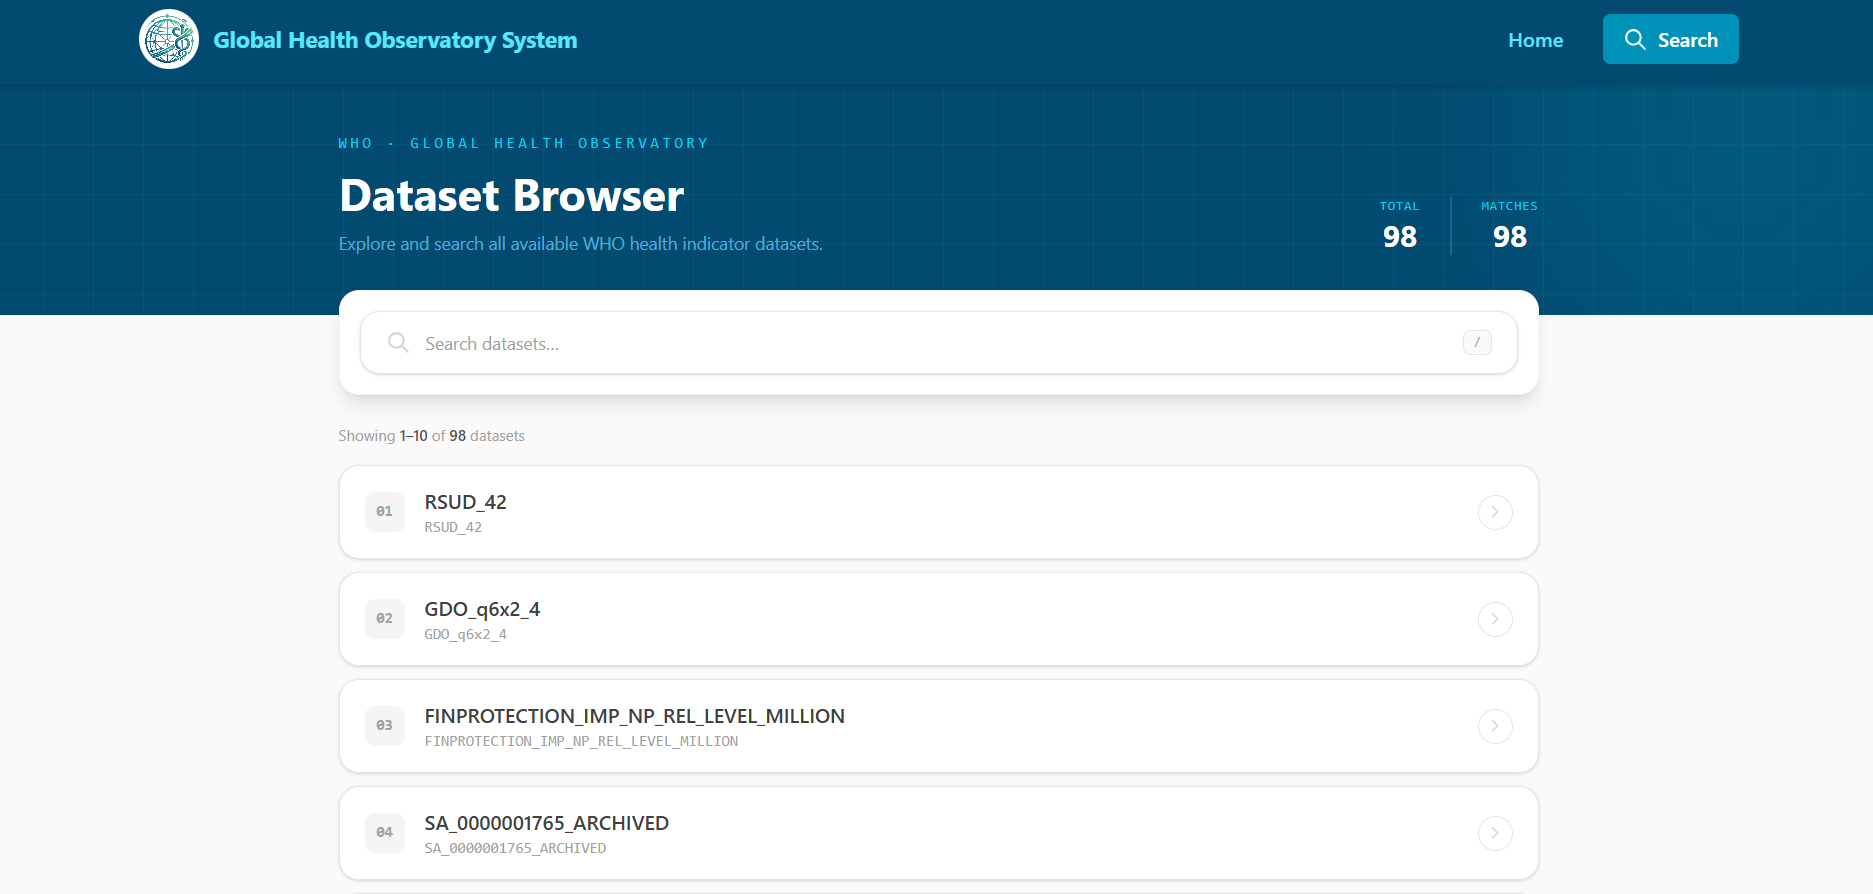
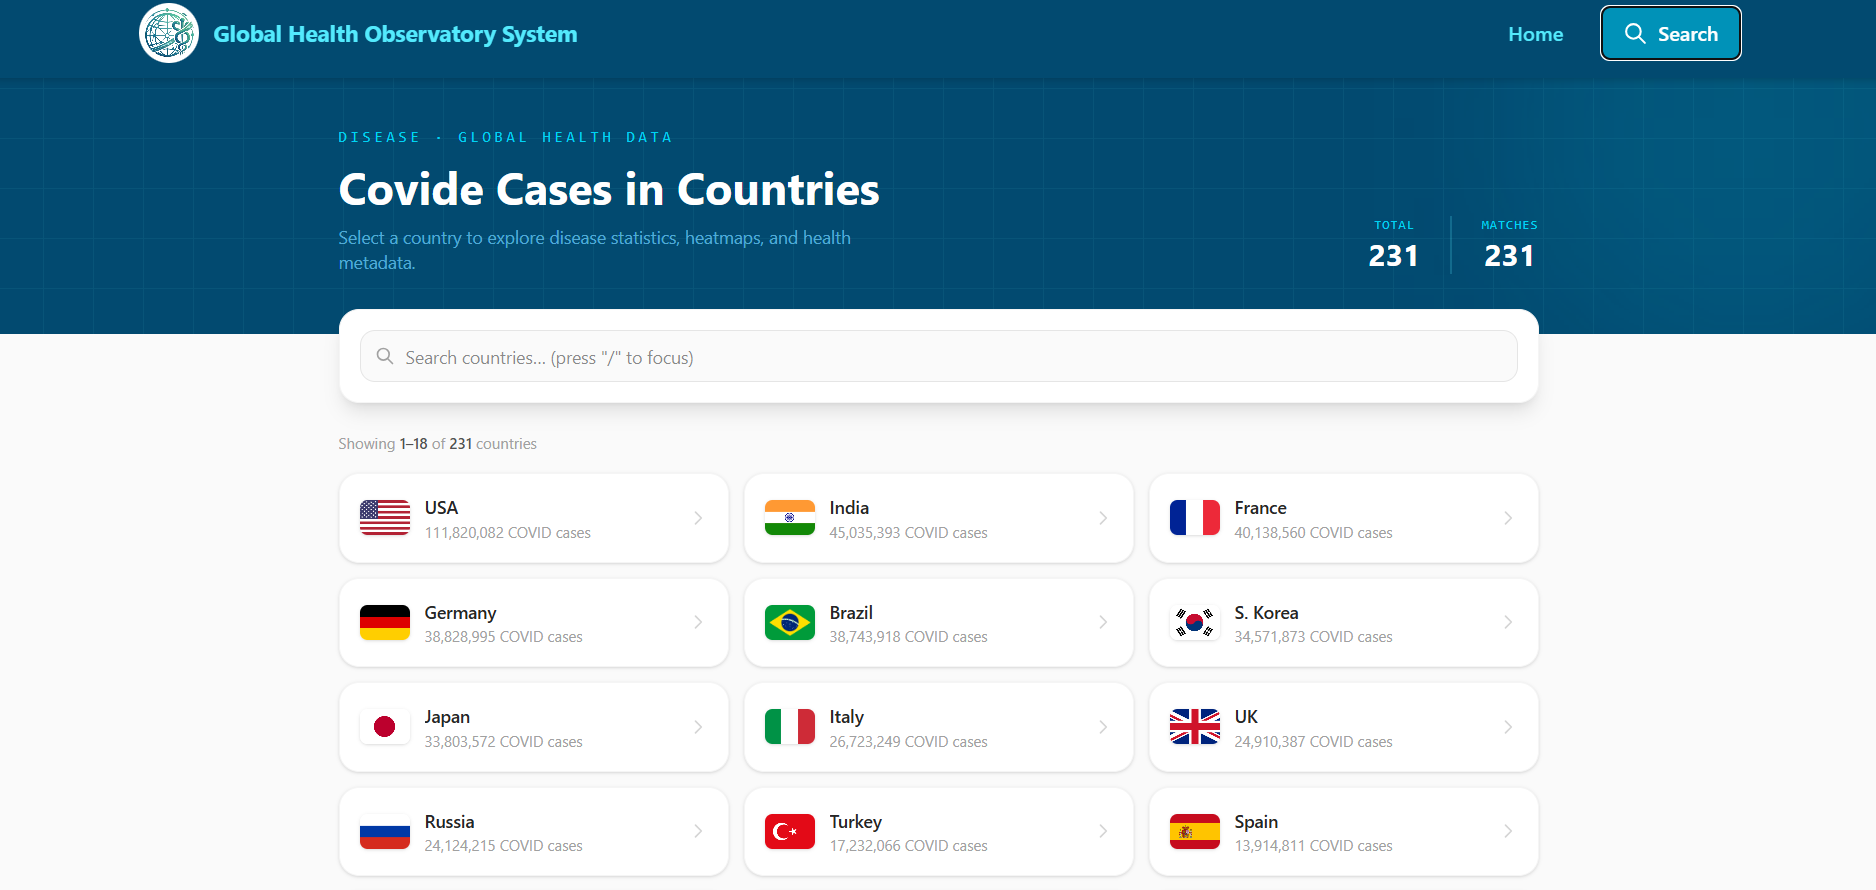
Added preview images + README.md previews

diff --git a/README.md b/README.md
@@ -5,7 +5,8 @@ Our finals project as a collaborative team.
 ![Landing Page Preview](preview/landing_page.png)
 ![Statistics Section Preview](preview/statistics_section.png)
 ![Browse Preview](preview/browse.png)
-![Record Preview](preview/record.png)
+![Country Heat Map Preview](preview/country_heatmap.png)
+![Country Metadata Preview](preview/country_metadata.png)
 
 ## Members:
 - [Calderon, Khian Victory **(Team Leader)**](https://github.com/khianvictorycalderon)